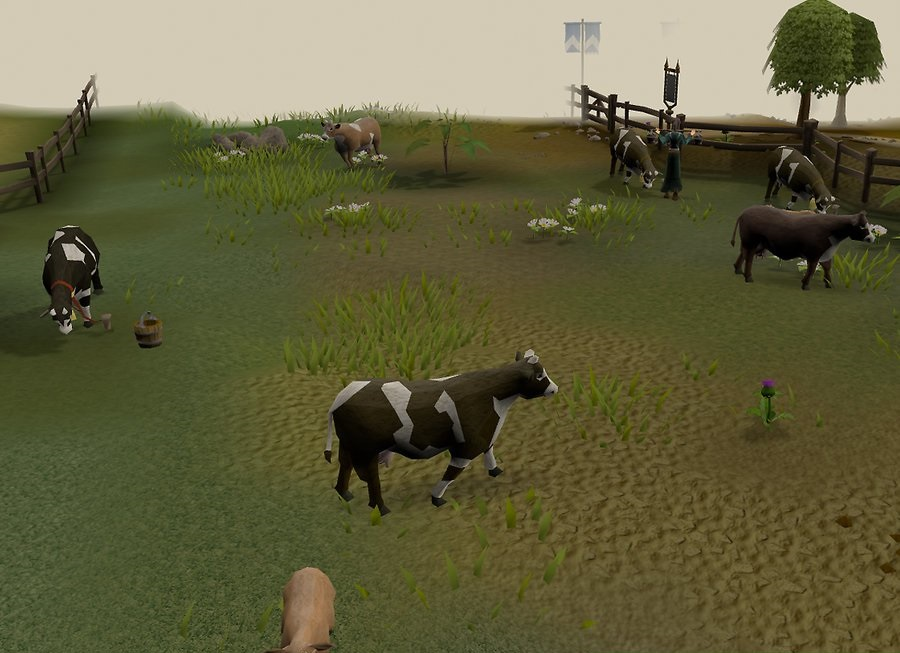
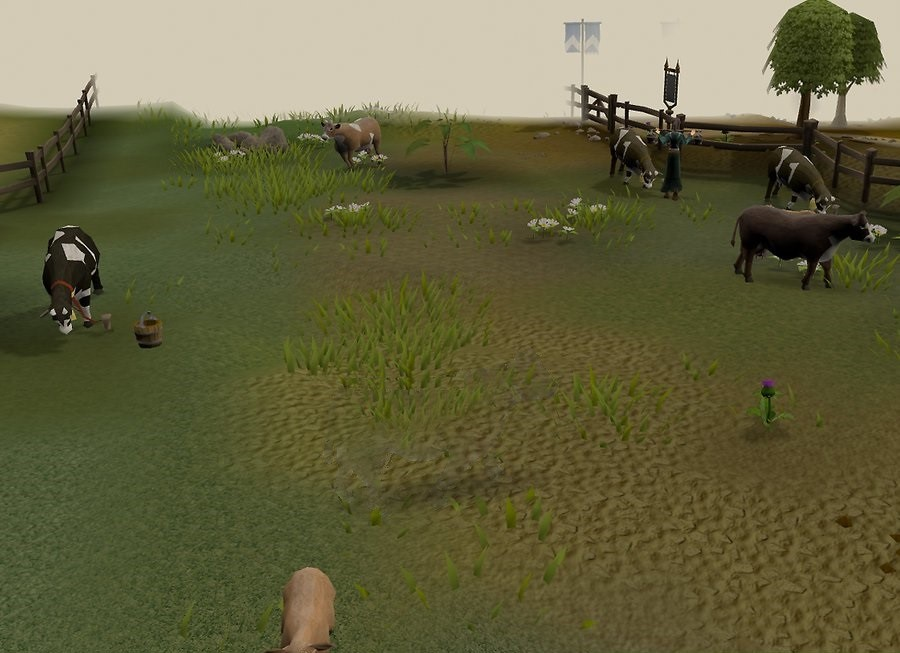
Added instantaneous dps counter. Added offsets to rat, cow, goblin. Removed background rat and cow from tutorial/lumbridge. Changed all fonts to runescape theme

Changed region(s): [[0.3422, 0.5207, 0.6222, 0.7963], [0.4667, 0.7351, 0.4978, 0.7963]]

diff --git a/src/ui/stats.js b/src/ui/stats.js
@@ -1,5 +1,5 @@
 import { defaultData } from "../default-data.js";
-import { CONSTANTS } from "../constants/constants.js";
+import { CONSTANTS, FONTS } from "../constants/constants.js";
 
 export class StatsScene extends Phaser.Scene {
     // Target: enemy, tree, etc.
@@ -16,9 +16,13 @@ export class StatsScene extends Phaser.Scene {
     enemiesKilledText;
     timesClickedText;
     damageByClickingText;
+    clickDpsText;
     damageByAutoClickText;
     autoClickDpsText;
     autoClickDps = 0;
+
+    recentDamage = 0;
+    timer;
 
     constructor(data) {
         super({ key: CONSTANTS.SCENES.STATS });
@@ -34,48 +38,37 @@ export class StatsScene extends Phaser.Scene {
     create() {
         // Gold
         this.goldText = this.add
-            .text(20, 20, "Gold: " + this.characterData.gold, {
-                fill: "gold",
-                fontSize: "30px",
-            })
+            .text(20, 20, "Gold: " + this.characterData.gold, FONTS.GOLD)
             .setDepth(3);
 
         // Show stats
-        let statColor = "white";
         this.enemiesKilledText = this.add
-            .text(20, 60, "Enemies killed: " + this.characterData.totalEnemiesKilled, {
-                fill: statColor,
-            })
+            .text(20, 60, "Enemies killed: " + this.characterData.totalEnemiesKilled, FONTS.STATS)
             .setDepth(3);
         this.timesClickedText = this.add
-            .text(20, 75, "Times clicked: " + this.characterData.timesClicked, {
-                fill: statColor,
-            })
+            .text(20, 75, "Times clicked: " + this.characterData.timesClicked, FONTS.STATS)
             .setDepth(3);
         this.damageByClickingText = this.add
             .text(
                 20,
                 90,
                 "Damage done by clicking: " + this.characterData.damageByClicking,
-                {
-                    fill: statColor,
-                }
+                FONTS.STATS
             )
+            .setDepth(3);
+        this.clickDpsText = this.add
+            .text(20, 75, "Click DPS: 0", FONTS.STATS)
             .setDepth(3);
         this.damageByAutoClickText = this.add
             .text(
                 20,
                 105,
                 "Damage done by autoclickers: " + this.characterData.damageByAutoClick,
-                {
-                    fill: statColor,
-                }
+                FONTS.STATS
             )
             .setDepth(3);
         this.autoClickDpsText = this.add
-            .text(20, 120, "AutoClicker DPS: " + this.autoClickDps, {
-                fill: statColor,
-            })
+            .text(20, 120, "AutoClicker DPS: " + this.autoClickDps, FONTS.STATS)
             .setDepth(3);
 
         // Show stats depending on level
@@ -83,6 +76,15 @@ export class StatsScene extends Phaser.Scene {
 
         // Access skills
         this.dashboard = this.scene.get(CONSTANTS.SCENES.DASHBOARD);
+
+        // Setup dps timer
+        this.timer = this.time.addEvent({
+            delay: 1000,
+            callback: () => {
+                this.updateClickDpsStat();
+            },
+            loop: true,
+        });
     }
 
     addGold(addedGold) {
@@ -100,6 +102,14 @@ export class StatsScene extends Phaser.Scene {
         this.characterData.damageByClicking += damageDone;
         this.damageByClickingText.text =
             "Damage done by clicking: " + this.characterData.damageByClicking;
+
+        // Collect damage for dps
+        this.recentDamage += damageDone;
+    }
+
+    updateClickDpsStat() {
+        this.clickDpsText.text = "Click DPS: " + this.recentDamage;
+        this.recentDamage = 0;
     }
 
     updateEnemiesKilledStat() {
@@ -128,10 +138,11 @@ export class StatsScene extends Phaser.Scene {
             case CONSTANTS.LEVEL_TYPE.ENEMY:
                 this.orderStats([
                     this.enemiesKilledText,
-                    this.timesClickedText,
-                    this.damageByClickingText,
                     this.autoClickDpsText,
                     this.damageByAutoClickText,
+                    this.timesClickedText,
+                    this.damageByClickingText,
+                    this.clickDpsText,
                 ]);
                 break;
             default:
@@ -146,7 +157,7 @@ export class StatsScene extends Phaser.Scene {
         statsArray.forEach((stat) => {
             stat.y = yPos;
             stat.visible = true;
-            yPos += 15;
+            yPos += 16;
         });
     }
 

diff --git a/src/targets/enemy.js b/src/targets/enemy.js
@@ -6,7 +6,7 @@ import { calcLevel } from "../utilities.js";
 export class Enemy extends Target {
     blueHitsplat;
     redHitsplat;
-    hitsplatText = "1";
+    hitsplatText;
     killGold;
     objectType = "ENEMY";
 
@@ -35,16 +35,40 @@ export class Enemy extends Target {
     constructor(data) {
         super(data);
 
+        // Setup coordinates
+        let hitSplatX = this.x;
+        let hitSplatY = this.y + 50;
+        let hitTextX = this.x;
+        let hitTextY = this.y + 100;
+        let barX = this.x;
+        let barY = this.y - 40;
+
+        // Get offsets if they exist
+        if (data.barOffsetX != undefined) {
+            barX += data.barOffsetX;
+        }
+        if (data.barOffsetY != undefined) {
+            barY += data.barOffsetY;
+        }
+        if (data.splatOffsetX != undefined) {
+            hitSplatX += data.splatOffsetX;
+            hitTextX += data.splatOffsetX;
+        }
+        if (data.splatOffsetY != undefined) {
+            hitSplatY += data.splatOffsetY;
+            hitTextY += data.splatOffsetY;
+        }
+
         // Add hitsplats
         this.blueHitsplat = data.scene.add
-            .image(this.x, this.y + 50, "blue-hitsplat")
+            .image(hitSplatX, hitSplatY, "blue-hitsplat")
             .setOrigin(0.5, 0)
             .setDepth(4)
             .setScale(0.3);
         this.blueHitsplat.visible = false;
 
         this.redHitsplat = data.scene.add
-            .image(this.x, this.y + 50, "red-hitsplat")
+            .image(hitSplatX, hitSplatY, "red-hitsplat")
             .setOrigin(0.5, 0)
             .setDepth(4)
             .setScale(0.3);
@@ -52,7 +76,7 @@ export class Enemy extends Target {
 
         // Add damage text
         this.hitsplatText = data.scene.add
-            .text(this.x, this.y + 100, "1", {
+            .text(hitTextX, hitTextY, "1", {
                 fill: "white",
             })
             .setOrigin(0.5, 0)
@@ -60,7 +84,7 @@ export class Enemy extends Target {
         this.hitsplatText.visible = false;
 
         // Add health bar
-        this.progressBar = new HealthBar(data.scene, this.x, this.y - 40, data.maxHealth);
+        this.progressBar = new HealthBar(data.scene, barX, barY, data.maxHealth);
 
         // Enemy specific vars
         this.killGold = data.killGold;

diff --git a/src/constants/constants.js b/src/constants/constants.js
@@ -104,9 +104,17 @@ export const MAP = {
 };
 
 export const FONTS = {
+    GOLD: {
+        font: "24px runescape",
+        fill: "gold",
+    },
+    STATS: {
+        font: "18px runescape",
+        fill: "white",
+    },
     UNLOCKED_FONT: {
         fill: "white",
-        fontSize: "20px",
+        font: "26px runescape",
         style: "bold",
         backgroundColor: "grey",
         alpha: 0.5,
@@ -119,17 +127,17 @@ export const FONTS = {
     },
     LOCKED_FONT: {
         fill: "black",
-        fontSize: "20px",
+        font: "26px runescape",
         style: "bold",
         backgroundColor: "grey",
     },
     OPTIONS_MENU: {
         fill: "white",
-        fontSize: "12px",
+        font: "16px runescape",
     },
     ITEM_NAME: {
         fill: "orange",
-        fontSize: "12px",
+        font: "16px runescape",
     },
     ITEM_STATS: {
         font: "16px runescape",

diff --git a/src/scenes/level.js b/src/scenes/level.js
@@ -100,8 +100,6 @@ export class LevelScene extends Phaser.Scene {
     }
 
     create() {
-        console.log(this.characterData.characterClass);
-
         // Set current level
         this.characterData.currentLevel = this.currentLevel;
 
@@ -178,7 +176,7 @@ export class LevelScene extends Phaser.Scene {
 
         // Buy auto clickers
         this.autoClickerButton = this.add
-            .text(20, 60, "50 gold for autoclicker", { fill: "gold" })
+            .text(20, 60, "50 gold for autoclicker", { font: "20px runescape", fill: "gold" })
             .setDepth(3)
             .setInteractive()
             .on("pointerup", () => {

diff --git a/src/targets/target.js b/src/targets/target.js
@@ -21,6 +21,14 @@ export class Target extends ClickableObject {
         this.x = width / 2 - 100;
         this.y = height / 2 - 150;
 
+        // Check for offsets
+        if (data.offsetX != undefined) {
+            this.x += data.offsetY;
+        }
+        if (data.offsetY != undefined) {
+            this.y += data.offsetY;
+        }
+
         // Add images if there are multiple
         data.images.forEach((image) => {
             let target = data.scene.add

diff --git a/src/targets/enemies/giant-rat.js b/src/targets/enemies/giant-rat.js
@@ -27,6 +27,8 @@ export class GiantRat extends Enemy {
             maxHealth: 5,
             killGold: 1,
             drops: [{ item: NormalBones, rate: 0.5 }],
+            barOffsetY: 110,
+            splatOffsetY: 50,
         });
     }
 }

diff --git a/src/targets/enemies/goblin.js b/src/targets/enemies/goblin.js
@@ -30,6 +30,7 @@ export class Goblin extends Enemy {
             maxHealth: 5,
             killGold: 3,
             drops: [{ item: NormalBones, rate: 0.5 }],
+            offsetY: 50,
         });
     }
 }

diff --git a/src/targets/enemies/cow.js b/src/targets/enemies/cow.js
@@ -34,6 +34,7 @@ export class Cow extends Enemy {
             maxHealth: 8,
             killGold: 5,
             drops: [{ item: NormalBones, rate: 0.5 }],
+            offsetY: 100,
         });
     }
 }
